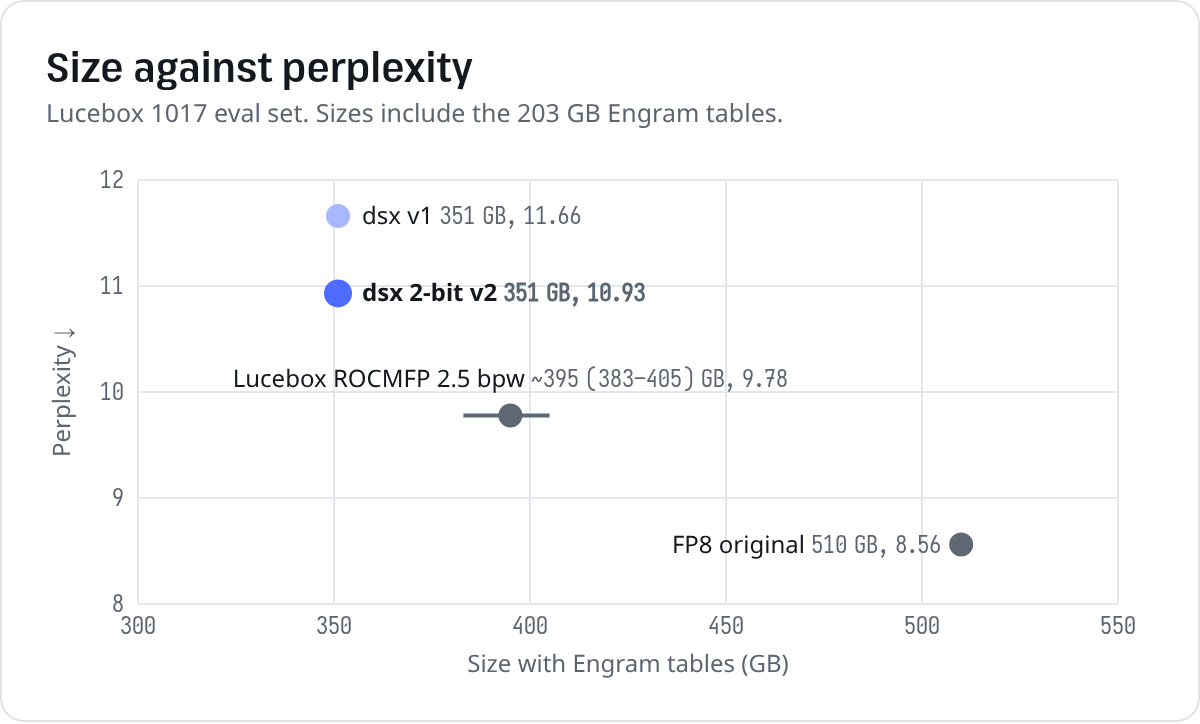
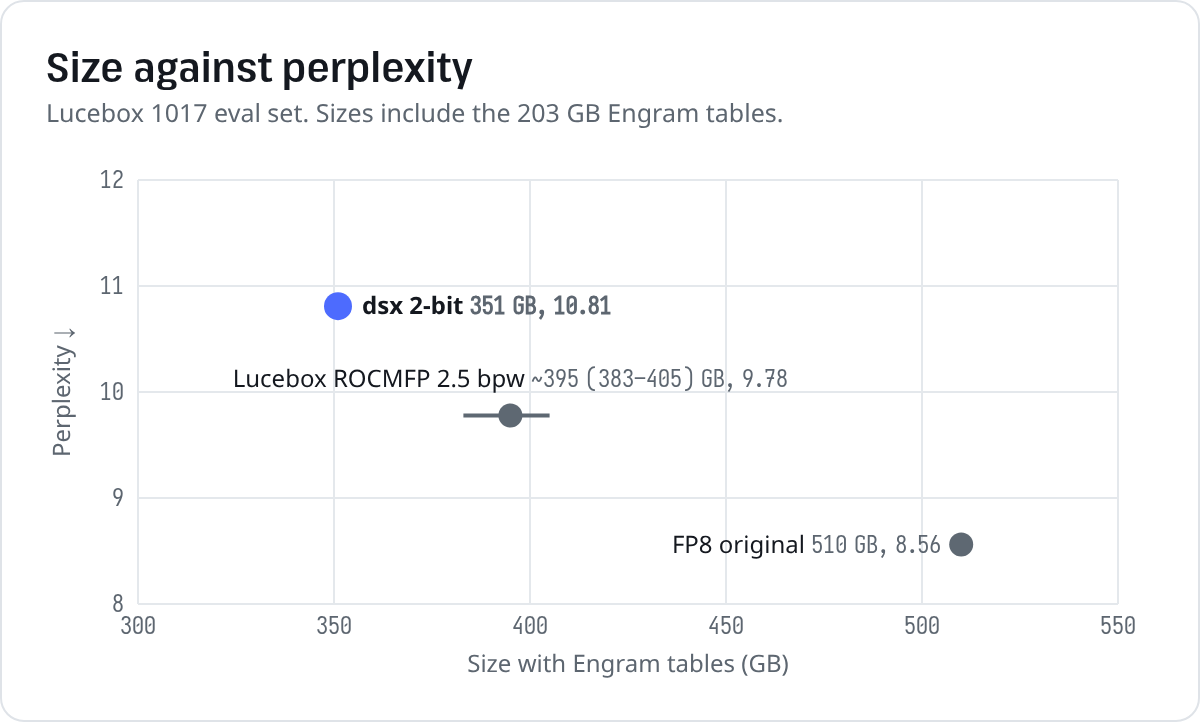
Card: v3a (reasoning-calibrated) quality numbers, a reasoning-length section, calibration text, earlier revisions v2/v1; charts regenerated
Claude-Session: https://claude.ai/code/session_01GzuuXMp3vNErKy1LhAJ84w

Changed region(s): [[0.2467, 0.3646, 0.555, 0.4558], [0.2467, 0.2735, 0.4933, 0.3343]]

diff --git a/cards/dsx-2bit/assets/make_charts.py b/cards/dsx-2bit/assets/make_charts.py
@@ -26,8 +26,7 @@ QUALITY = [  # Lucebox 1017 eval set: 8 x 1024 tokens vs FP8 top-256 log-probs
     # name, KL, top-1 %, perplexity, highlight
     ("FP8 original", 0.0, 100.0, 8.56, False),
     ("Lucebox ROCMFP, 2.5 bpw", 0.253, 78.7, 9.78, False),
-    ("dsx 2-bit v2, 2.03 bpw", 0.395, 74.1, 10.93, True),
-    ("dsx v1, 2.03 bpw", 0.462, 71.5, 11.66, False),
+    ("dsx 2-bit, 2.03 bpw", 0.397, 74.1, 10.81, True),
 ]
 SIZE = [  # GB to download, without the 203 GB Engram tables unless marked
     ("FP8 original", 510, "includes Engram", False),
@@ -41,8 +40,7 @@ SIZE_QUALITY = [  # sizes all include the Engram tables; perplexity on the Luceb
     # name, GB, GB range or None, perplexity, highlight
     ("FP8 original", 510, None, 8.56, False),
     ("Lucebox ROCMFP 2.5 bpw", 395, (383, 405), 9.78, False),
-    ("dsx 2-bit v2", 351, None, 10.93, True),
-    ("dsx v1", 351, None, 11.66, False),
+    ("dsx 2-bit", 351, None, 10.81, True),
 ]
 
 # ---------------------------------------------------------------- style
@@ -151,7 +149,7 @@ def size_quality():
         s.append(t(X0 - 7, y(g) + 4, g, "n m", "end", 'font-size="10.5"'))
     s.append(t((X0 + X1) / 2, Y0 + 34, "Size with Engram tables (GB)", "m", "middle"))
     s.append(t(X0 - 34, (Y0 + Y1) / 2, "Perplexity ↓", "m", "middle", f'transform="rotate(-90 {X0-34} {(Y0+Y1)/2})"'))
-    place = {"FP8 original": (-10, 4, "end"), "Lucebox ROCMFP 2.5 bpw": (0, -14, "middle"), "dsx 2-bit v2": (12, 4, "start"), "dsx v1": (12, 4, "start")}
+    place = {"FP8 original": (-10, 4, "end"), "Lucebox ROCMFP 2.5 bpw": (0, -14, "middle"), "dsx 2-bit": (12, 4, "start")}
     for name, gb, rng, ppl, hl in SIZE_QUALITY:
         c = BLUE if hl else (BLUE2 if name.startswith("dsx") else GREY2)
         if rng: s.append(f'<line x1="{x(rng[0]):.1f}" x2="{x(rng[1]):.1f}" y1="{y(ppl):.1f}" y2="{y(ppl):.1f}" stroke="{GREY2}" stroke-width="2"/>')

diff --git a/cards/dsx-2bit/README.md b/cards/dsx-2bit/README.md
@@ -29,7 +29,7 @@ MI325X (256 GiB HBM) there is a near-lossless build: [lxe/DeepSeek-V4.1-Flash-10
 | Size | 148 GB (4 GGUF shards) + the official Engram shards (203 GB) |
 | Format | per-expert mixed precision: ternary, Q2_0 or Q3_K for each expert, Q8_0 dense |
 | Routing | exact: no expert pruning, no router bias |
-| Quality vs FP8 | KL 0.395 · top-1 74.1% · perplexity 10.93 (FP8: 8.56) |
+| Quality vs FP8 | KL 0.397 · top-1 74.1% · perplexity 10.81 (FP8: 8.56) |
 | Speed, 2x RTX 3090 | 30-37 tok/s decode · 334-508 tok/s prefill |
 | Runtime | [dsx](https://github.com/lxe/dsx) (OpenAI / Anthropic API, image input, web UI) |
 
@@ -44,7 +44,19 @@ Measured on [Lucebox's 1017 eval set](https://huggingface.co/Lucebox/DeepSeek-V4
 |---|---|---:|---:|---:|
 | FP8 / FP4 original | FP4 | 0 | 100% | 8.56 |
 | Lucebox ROCMFP | 2.5 bpw | 0.253 | 78.7% | 9.78 |
-| **dsx 2-bit** | **2.03 bpw** | **0.395** | **74.1%** | **10.93** |
+| **dsx 2-bit** | **2.03 bpw** | **0.397** | **74.1%** | **10.81** |
+
+## Reasoning
+
+Calibrated on the full model's own reasoning traces as well as agent text. Reasoning tokens per run on two
+Omni-MATH problems, temperature 1.0, all answers correct:
+
+| | Problem A | Problem B |
+|---|---|---|
+| FP8 model, hosted (8 runs) | 5.7K-17.4K (median 9.4K) | 7.5K-13.9K (median 10.7K) |
+| dsx 2-bit | 10.3K, 10.5K, 15.3K | 20.2K, 21.5K |
+
+On harder problems it reasons longer than the FP8 model, up to about 2×. Sample at temperature 1.0 for reasoning.
 
 ## Speed
 
@@ -118,7 +130,8 @@ Also needed: CUDA 13, Rust, an AVX2 CPU, ~350 GB of disk.
   forgiving ones ~1.76. Average: 2.03 bpw.
 - **Method:** GPTQ per expert, with Hessians from a layer-by-layer calibration pass through DeepSeek's reference
   `model.py` (GSQ pipeline from [Xolotl](https://github.com/Indras-Mirror/Xolotl)).
-- **Calibration text:** 128 × 2048 tokens of coding-agent sessions and antirez's agent and code prompts.
+- **Calibration text:** 160 × 2048 tokens: coding-agent sessions, antirez's agent and code prompts, and 53 sequences
+  of the full model's own reasoning traces on Omni-MATH and SuperGPQA questions (none from the evaluated rows).
 - **Dense weights:** Q8_0. **Engram:** unquantized, read from the official shards.
 
 Pipeline: [github.com/lxe/dsx/tree/main/quant](https://github.com/lxe/dsx/tree/main/quant).
@@ -135,7 +148,7 @@ Pipeline: [github.com/lxe/dsx/tree/main/quant](https://github.com/lxe/dsx/tree/m
 | `results/` | raw quality and speed logs |
 | `assets/` | charts and the script that draws them |
 
-The earlier 2.0-bpw-per-layer build (KL 0.462) is at revision [`v1`](https://huggingface.co/lxe/DeepSeek-V4.1-Flash-1017-dsx-2bit/tree/v1).
+Earlier builds: revision [`v2`](https://huggingface.co/lxe/DeepSeek-V4.1-Flash-1017-dsx-2bit/tree/v2) (agent-text calibration, KL 0.395) and [`v1`](https://huggingface.co/lxe/DeepSeek-V4.1-Flash-1017-dsx-2bit/tree/v1) (KL 0.462).
 
 ## Credits
 
